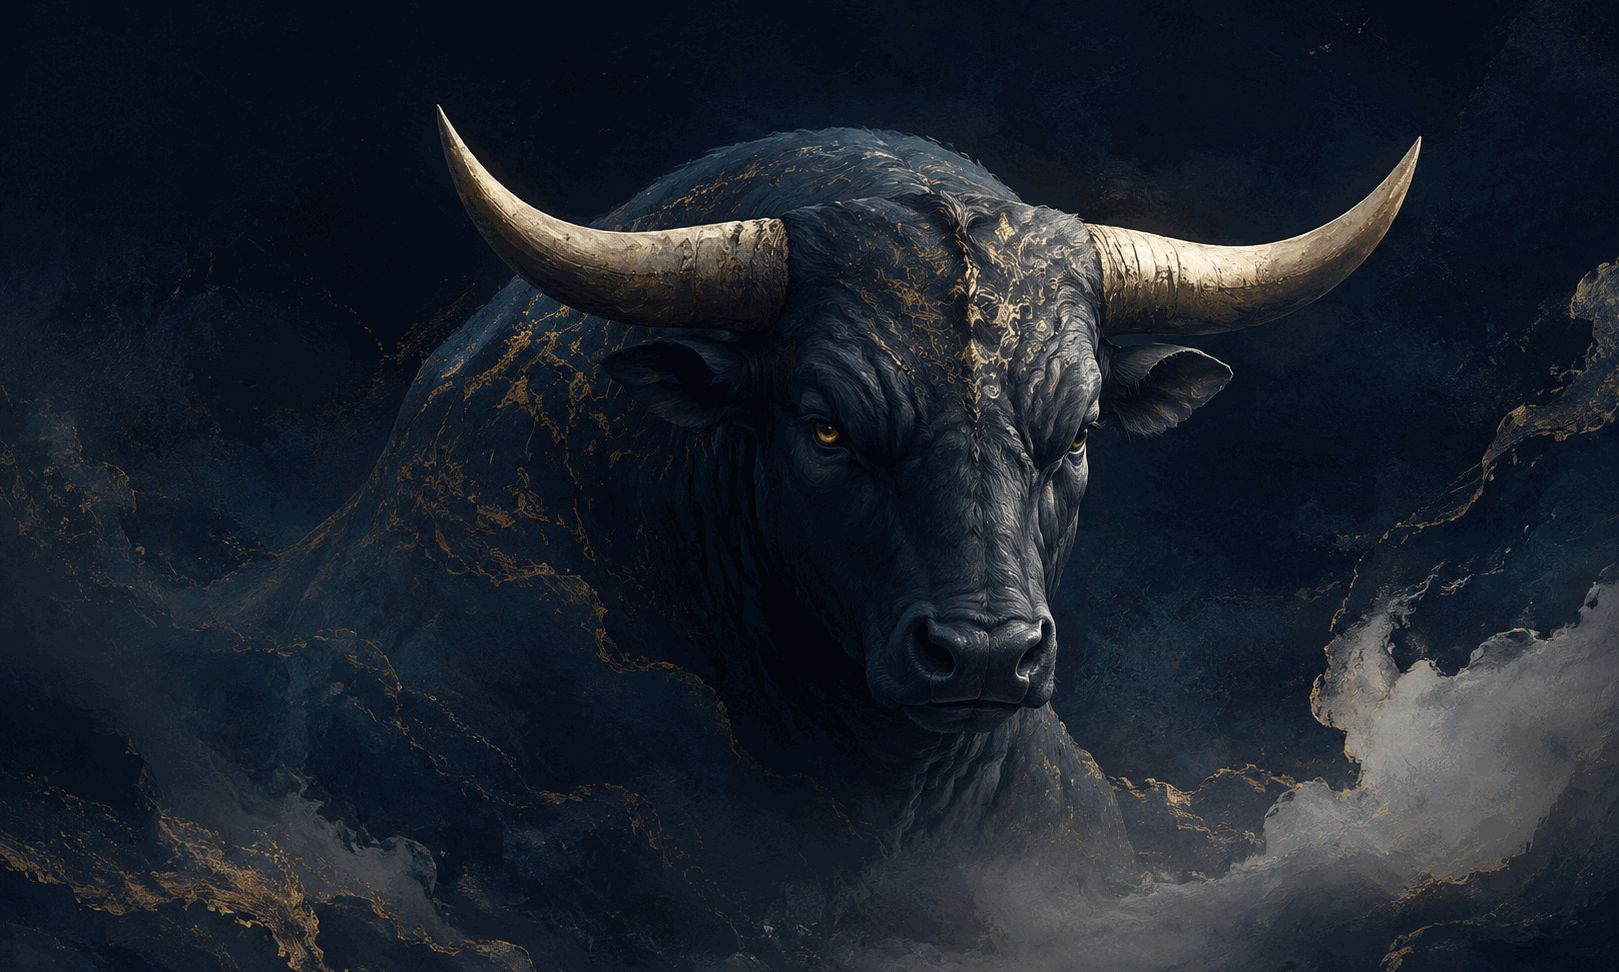
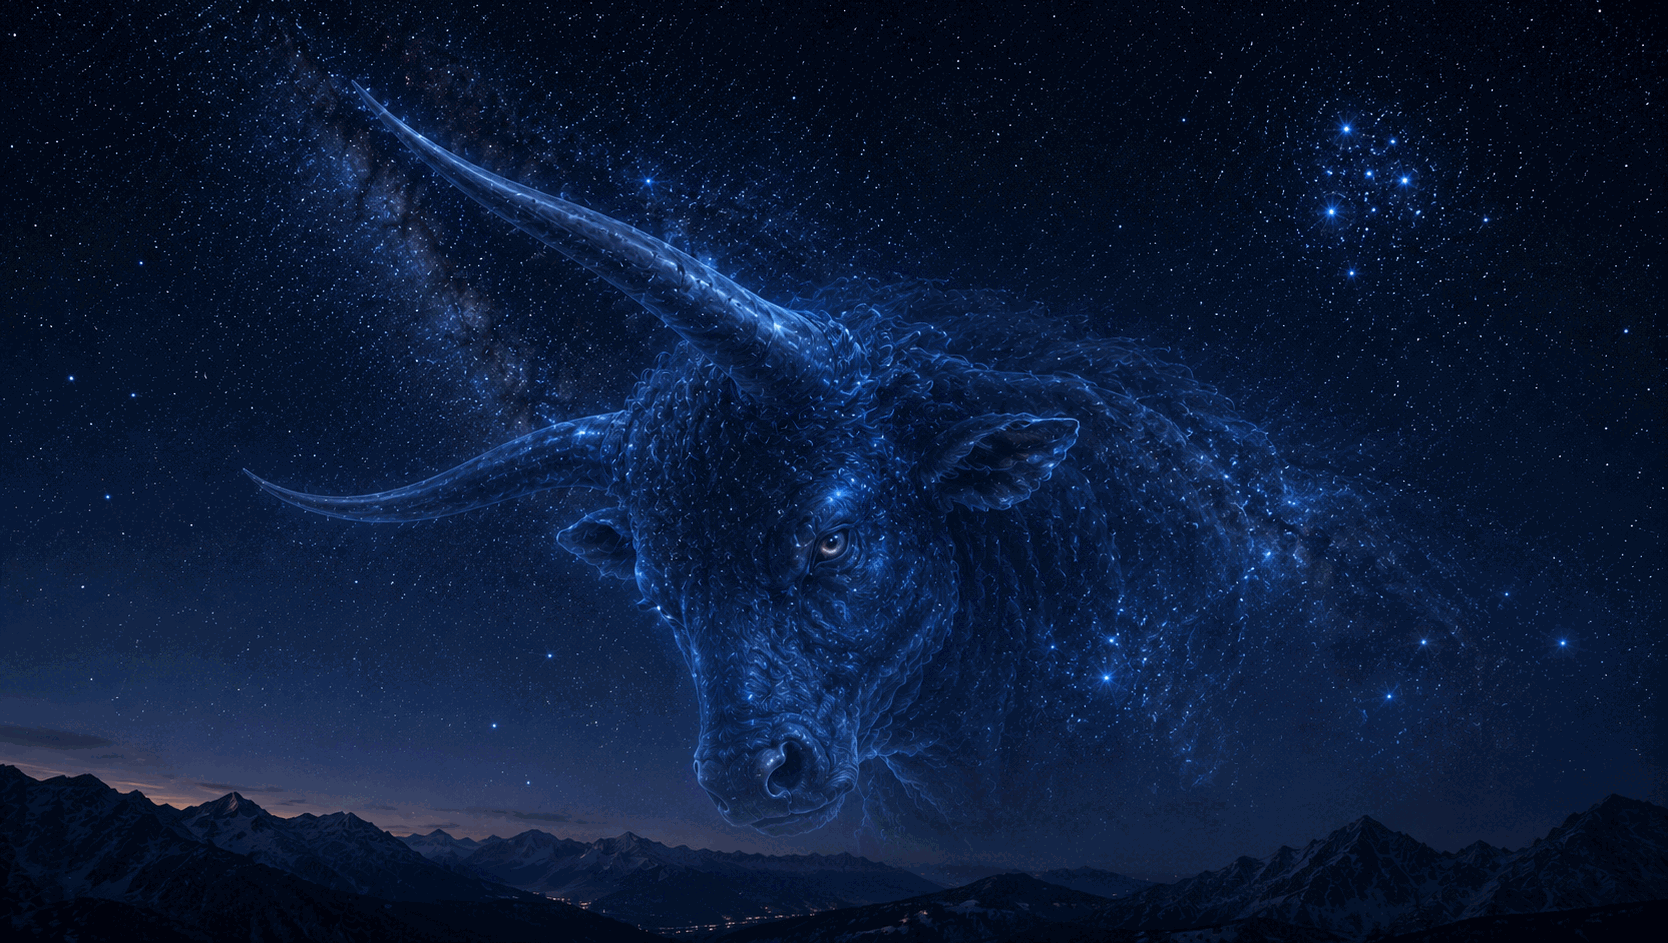
Refine Taurus artwork and mythology

diff --git a/app/constellacions/taure/page.tsx b/app/constellacions/taure/page.tsx
@@ -1,4 +1,5 @@
 import Link from "next/link";
+import TaurusArt from "../../../components/TaurusArt";
 import TaurusMap from "../../../components/TaurusMap";
 import TaurusRouteExplorer from "../../../components/TaurusRouteExplorer";
 import TonightSkyCard from "../../../components/TonightSkyCard";
@@ -104,9 +105,7 @@ export default function TaurusPage() {
         <div className="section-heading compact-heading">
           <div><p className="section-kicker">TAURE IMAGINAT</p><h2>El toro entre les estrelles</h2></div>
         </div>
-        <figure className="art-card">
-          <img src="/images/taure-mitologic.png" alt="Interpretació artística del toro de Taure emergint de la foscor" />
-        </figure>
+        <TaurusArt />
       </section>
 
       <section className="myth-section taurus-myth-section">
@@ -115,19 +114,23 @@ export default function TaurusPage() {
           <div>
             <p className="section-kicker">LA HISTÒRIA DEL TORO</p>
             <h2>Zeus, Europa i una figura més antiga que un sol relat</h2>
-            <p>En una de les tradicions gregues més conegudes, Zeus adopta la forma d’un toro blanc, bell i mansuet per acostar-se a <strong>Europa</strong>, princesa fenícia. Quan ella s’hi enfila, el toro entra al mar i la porta fins a <strong>Creta</strong>. Allà, Europa esdevé mare de Minos i dona nom, segons la tradició posterior, al continent.</p>
-            <p>Aquesta identificació explica Taure com el toro de Zeus, però no és universal. La figura celeste del toro és antiquíssima i altres cultures del Pròxim Orient i de la Mediterrània hi van veure els seus propis animals sagrats, divinitats o símbols de força i fertilitat. L’Atlas presenta la versió de Zeus i Europa com una tradició important, no com l’única lectura possible.</p>
+            <p>En una de les tradicions gregues més conegudes, <strong>Europa</strong> és una princesa fenícia —les fonts discrepen sobre si el seu pare és Agenor o Fènix— que recull flors prop del mar amb altres joves. Zeus adopta la forma d’un toro blanc, bell i aparentment mansuet; Europa s’hi acosta, l’acarona i acaba pujant-li al llom. Aleshores el toro entra a l’aigua i la transporta fins a <strong>Creta</strong>.</p>
+            <p>A l’illa, Europa queda vinculada a la genealogia dels reis cretencs. <strong>Minos</strong> és presentat de manera consistent com a fill seu i de Zeus; altres tradicions hi afegeixen <strong>Radamant</strong> i <strong>Sarpèdon</strong>. Europa es casa després amb el rei Asterió, que acull els fills. La història va tenir moltes versions, i convé no convertir-ne cap en un relat únic i tancat.</p>
+            <p>Higí recull la identificació de la constel·lació amb el toro que va portar Europa fins a Creta, però també n’esmenta una altra: Taure podria recordar <strong>Io</strong>, transformada en vedella. El mateix autor explica per què sovint només s’imagina la part anterior de l’animal: el toro queda ben definit al davant i es difumina al darrere; les <strong>Híades</strong> en dibuixen el rostre.</p>
+            <p>Per tant, relacionar Taure amb Zeus i Europa és una tradició clàssica important, no una equivalència universal. La imatge del toro al cel és més antiga i més àmplia que aquest episodi grec, i altres cultures van llegir aquesta regió amb marcs simbòlics propis. Compartir una figura bovina no significa compartir necessàriament el mateix mite.</p>
 
             <div className="myth-stories-grid">
               <article>
                 <p className="section-kicker">LES PLÈIADES</p>
                 <h3>Les set germanes</h3>
-                <p>En la tradició grega són filles d’<strong>Atlas</strong> i <strong>Pleione</strong>. El seu relat té vida pròpia i sovint queda lligat a la persecució d’Orió: les germanes són transformades en estrelles i el caçador continua seguint-les pel cel.</p>
+                <p>En la genealogia més estesa són set filles d’<strong>Atlas</strong> i <strong>Pleione</strong>: Maia, Electra, Taígete, Alcíone, Celeno, Estèrope i Mèrope. Una tradició explica que <strong>Orió</strong> persegueix Pleione i les filles durant anys fins que Zeus les converteix en estrelles. El moviment aparent del cel manté la imatge: Orió sembla seguir el cúmul cap a l’oest.</p>
+                <p>Altres relats expliquen la seva elevació al cel pel dolor davant el destí d’Atlas o de les Híades. Fins i tot la «setena estrella» poc visible rep explicacions diferents: segons la versió, és Mèrope o Electra qui s’apaga per vergonya o per dol.</p>
               </article>
               <article>
                 <p className="section-kicker">LES HÍADES</p>
                 <h3>Germanes de la pluja</h3>
-                <p>Les Híades també tenen genealogies i variants pròpies. Sovint són presentades com germanes vinculades a la pluja i al dol per la mort del seu germà Hias. No són el mateix grup mític que les Plèiades, encara que totes dues agrupacions apareguin dins de Taure.</p>
+                <p>Les Híades també tenen genealogies, noms i nombres variables. En una versió són filles d’Atlas i germanes d’<strong>Hias</strong>: després de la mort d’Hias en una cacera, el seu plor persistent les porta al cel. Aquesta associació amb les llàgrimes encaixa amb el seu nom tradicional de «plujoses» i amb l’arribada de les pluges estacionals.</p>
+                <p>Una altra tradició les converteix en nimfes que van tenir cura de <strong>Dionís</strong> i que són recompensades amb un lloc entre les estrelles. No són el mateix grup mític que les Plèiades, encara que els dos cúmuls comparteixin la regió celeste de Taure.</p>
               </article>
             </div>
             <p className="myth-conclusion">El cel real connecta visualment el toro, les Híades i les Plèiades. Els seus mites, però, no formen un únic conte: són relats diferents que coincideixen en una mateixa regió del firmament.</p>

diff --git a/components/TaurusMap.tsx b/components/TaurusMap.tsx
@@ -2,7 +2,7 @@
 
 import { useMemo, useState } from "react";
 
-type TaurusPoint = {
+export type TaurusPoint = {
   id: string;
   name: string;
   raHours: number;
@@ -12,7 +12,7 @@ type TaurusPoint = {
 };
 
 // ICRS/J2000 positions from SIMBAD and NASA's Messier catalogue.
-const stars: TaurusPoint[] = [
+export const TAURUS_STARS: TaurusPoint[] = [
   { id: "aldebaran", name: "Aldebaran", raHours: 4 + 35 / 60 + 55.24 / 3600, decDeg: 16 + 30 / 60 + 33.5 / 3600, magnitude: 0.87, kind: "warm" },
   { id: "gamma", name: "γ Tauri", raHours: 4 + 19 / 60 + 47.604 / 3600, decDeg: 15 + 37 / 60 + 39.51 / 3600, magnitude: 3.65 },
   { id: "delta", name: "δ¹ Tauri", raHours: 4 + 22 / 60 + 56.1 / 3600, decDeg: 17 + 32 / 60 + 33 / 3600, magnitude: 3.77 },
@@ -22,7 +22,7 @@ const stars: TaurusPoint[] = [
   { id: "zeta", name: "Zeta Tauri", raHours: 5 + 37 / 60 + 38.68 / 3600, decDeg: 21 + 8 / 60 + 33 / 3600, magnitude: 3.01 },
 ];
 
-const pleiades: TaurusPoint[] = [
+export const TAURUS_PLEIADES: TaurusPoint[] = [
   { id: "alcyone", name: "Plèiades · M45", raHours: 3 + 47 / 60 + 29.08 / 3600, decDeg: 24 + 6 / 60 + 18.5 / 3600, magnitude: 2.87, kind: "cluster" },
   { id: "atlas", name: "", raHours: 3 + 49 / 60 + 9.7 / 3600, decDeg: 24 + 3 / 60 + 12 / 3600, magnitude: 3.63, kind: "cluster" },
   { id: "electra", name: "", raHours: 3 + 44 / 60 + 52.5 / 3600, decDeg: 24 + 6 / 60 + 48 / 3600, magnitude: 3.7, kind: "cluster" },
@@ -31,7 +31,7 @@ const pleiades: TaurusPoint[] = [
   { id: "taygeta", name: "", raHours: 3 + 45 / 60 + 12.5 / 3600, decDeg: 24 + 28 / 60 + 2 / 3600, magnitude: 4.3, kind: "cluster" },
 ];
 
-const lines = [
+export const TAURUS_LINES = [
   ["gamma", "theta"], ["theta", "aldebaran"],
   ["gamma", "delta"], ["delta", "epsilon"],
   ["epsilon", "elnath"], ["gamma", "zeta"],
@@ -42,7 +42,7 @@ const CENTER_DEC_DEG = 21;
 const SPAN_X_DEG = 32;
 const SPAN_Y_DEG = 20;
 
-function project(point: Pick<TaurusPoint, "raHours" | "decDeg">) {
+export function projectTaurus(point: Pick<TaurusPoint, "raHours" | "decDeg">) {
   const deltaRa = (point.raHours * 15 - CENTER_RA_DEG) * Math.cos(CENTER_DEC_DEG * Math.PI / 180);
   return {
     x: 50 - deltaRa / SPAN_X_DEG * 100,
@@ -59,9 +59,9 @@ export default function TaurusMap() {
   const [showLines, setShowLines] = useState(true);
   const [showNames, setShowNames] = useState(true);
   const [showMyth, setShowMyth] = useState(false);
-  const projected = useMemo(() => [...stars, ...pleiades].map(point => ({ ...point, ...project(point) })), []);
+  const projected = useMemo(() => [...TAURUS_STARS, ...TAURUS_PLEIADES].map(point => ({ ...point, ...projectTaurus(point) })), []);
   const byId = useMemo(() => Object.fromEntries(projected.map(point => [point.id, point])), [projected]);
-  const m1 = project({ raHours: 5 + 34 / 60 + 31.94 / 3600, decDeg: 22 + 52.2 / 3600 });
+  const m1 = projectTaurus({ raHours: 5 + 34 / 60 + 31.94 / 3600, decDeg: 22 + 52.2 / 3600 });
   const headCentre = {
     x: (byId.gamma.x + byId.theta.x + byId.epsilon.x) / 3,
     y: (byId.gamma.y + byId.theta.y + byId.epsilon.y) / 3,
@@ -105,7 +105,7 @@ export default function TaurusMap() {
         )}
         {showLines && (
           <svg className="constellation-lines" viewBox="0 0 100 100" preserveAspectRatio="none" aria-hidden="true">
-            {lines.map(([a, b]) => <line key={`${a}-${b}`} x1={byId[a].x} y1={byId[a].y} x2={byId[b].x} y2={byId[b].y} />)}
+            {TAURUS_LINES.map(([a, b]) => <line key={`${a}-${b}`} x1={byId[a].x} y1={byId[a].y} x2={byId[b].x} y2={byId[b].y} />)}
           </svg>
         )}
         {showStars && projected.map(point => {

diff --git a/components/TaurusArt.tsx b/components/TaurusArt.tsx
@@ -1,0 +1,44 @@
+"use client";
+
+import {
+  projectTaurus,
+  TAURUS_LINES,
+  TAURUS_PLEIADES,
+  TAURUS_STARS,
+} from "./TaurusMap";
+
+export default function TaurusArt() {
+  const projected = [...TAURUS_STARS, ...TAURUS_PLEIADES].map((point) => ({
+    ...point,
+    ...projectTaurus(point),
+  }));
+  const byId = Object.fromEntries(projected.map((point) => [point.id, point]));
+
+  return (
+    <figure className="art-card taurus-art-card">
+      <img
+        src="/images/taure-mitologic.png"
+        alt="Taure imaginat com un toro celeste; les estrelles principals segueixen la geometria real de la constel·lació"
+      />
+      <svg className="taurus-art-overlay" viewBox="0 0 100 100" preserveAspectRatio="none" aria-hidden="true">
+        <defs>
+          <filter id="taurus-art-glow" x="-300%" y="-300%" width="700%" height="700%">
+            <feGaussianBlur stdDeviation="0.8" result="blur" />
+            <feMerge><feMergeNode in="blur" /><feMergeNode in="SourceGraphic" /></feMerge>
+          </filter>
+        </defs>
+        <g className="taurus-art-lines">
+          {TAURUS_LINES.map(([a, b]) => (
+            <line key={`${a}-${b}`} x1={byId[a].x} y1={byId[a].y} x2={byId[b].x} y2={byId[b].y} />
+          ))}
+        </g>
+        <g className="taurus-art-points" filter="url(#taurus-art-glow)">
+          {projected.map((point) => {
+            const radius = Math.max(0.32, 0.9 - point.magnitude * 0.11);
+            return <circle key={point.id} className={point.kind ?? ""} cx={point.x} cy={point.y} r={radius} />;
+          })}
+        </g>
+      </svg>
+    </figure>
+  );
+}

diff --git a/app/globals.css b/app/globals.css
@@ -274,6 +274,12 @@ h3 { font-size: 1.25rem; }
 .route-target-static span { margin:auto; }
 .route-target-static.warm span { background:#ffc38b; box-shadow:0 0 18px rgba(255,166,91,.62); }
 .route-target-static.cluster span { background:#dcecff; box-shadow:0 0 18px rgba(191,220,255,.55); }
+.taurus-art-card { position:relative; }
+.taurus-art-overlay { position:absolute; inset:0; width:100%; height:100%; pointer-events:none; }
+.taurus-art-lines line { stroke:rgba(137,202,255,.62); stroke-width:.16; vector-effect:non-scaling-stroke; }
+.taurus-art-points circle { fill:#f5fbff; stroke:rgba(172,218,255,.85); stroke-width:.08; vector-effect:non-scaling-stroke; }
+.taurus-art-points circle.warm { fill:#ffc387; stroke:#ffe0bd; }
+.taurus-art-points circle.cluster { fill:#eaf5ff; }
 
 /* Constellation index and editorial cross-navigation */
 .constellations-index-hero { padding-bottom:44px; border-bottom:1px solid var(--line); }
